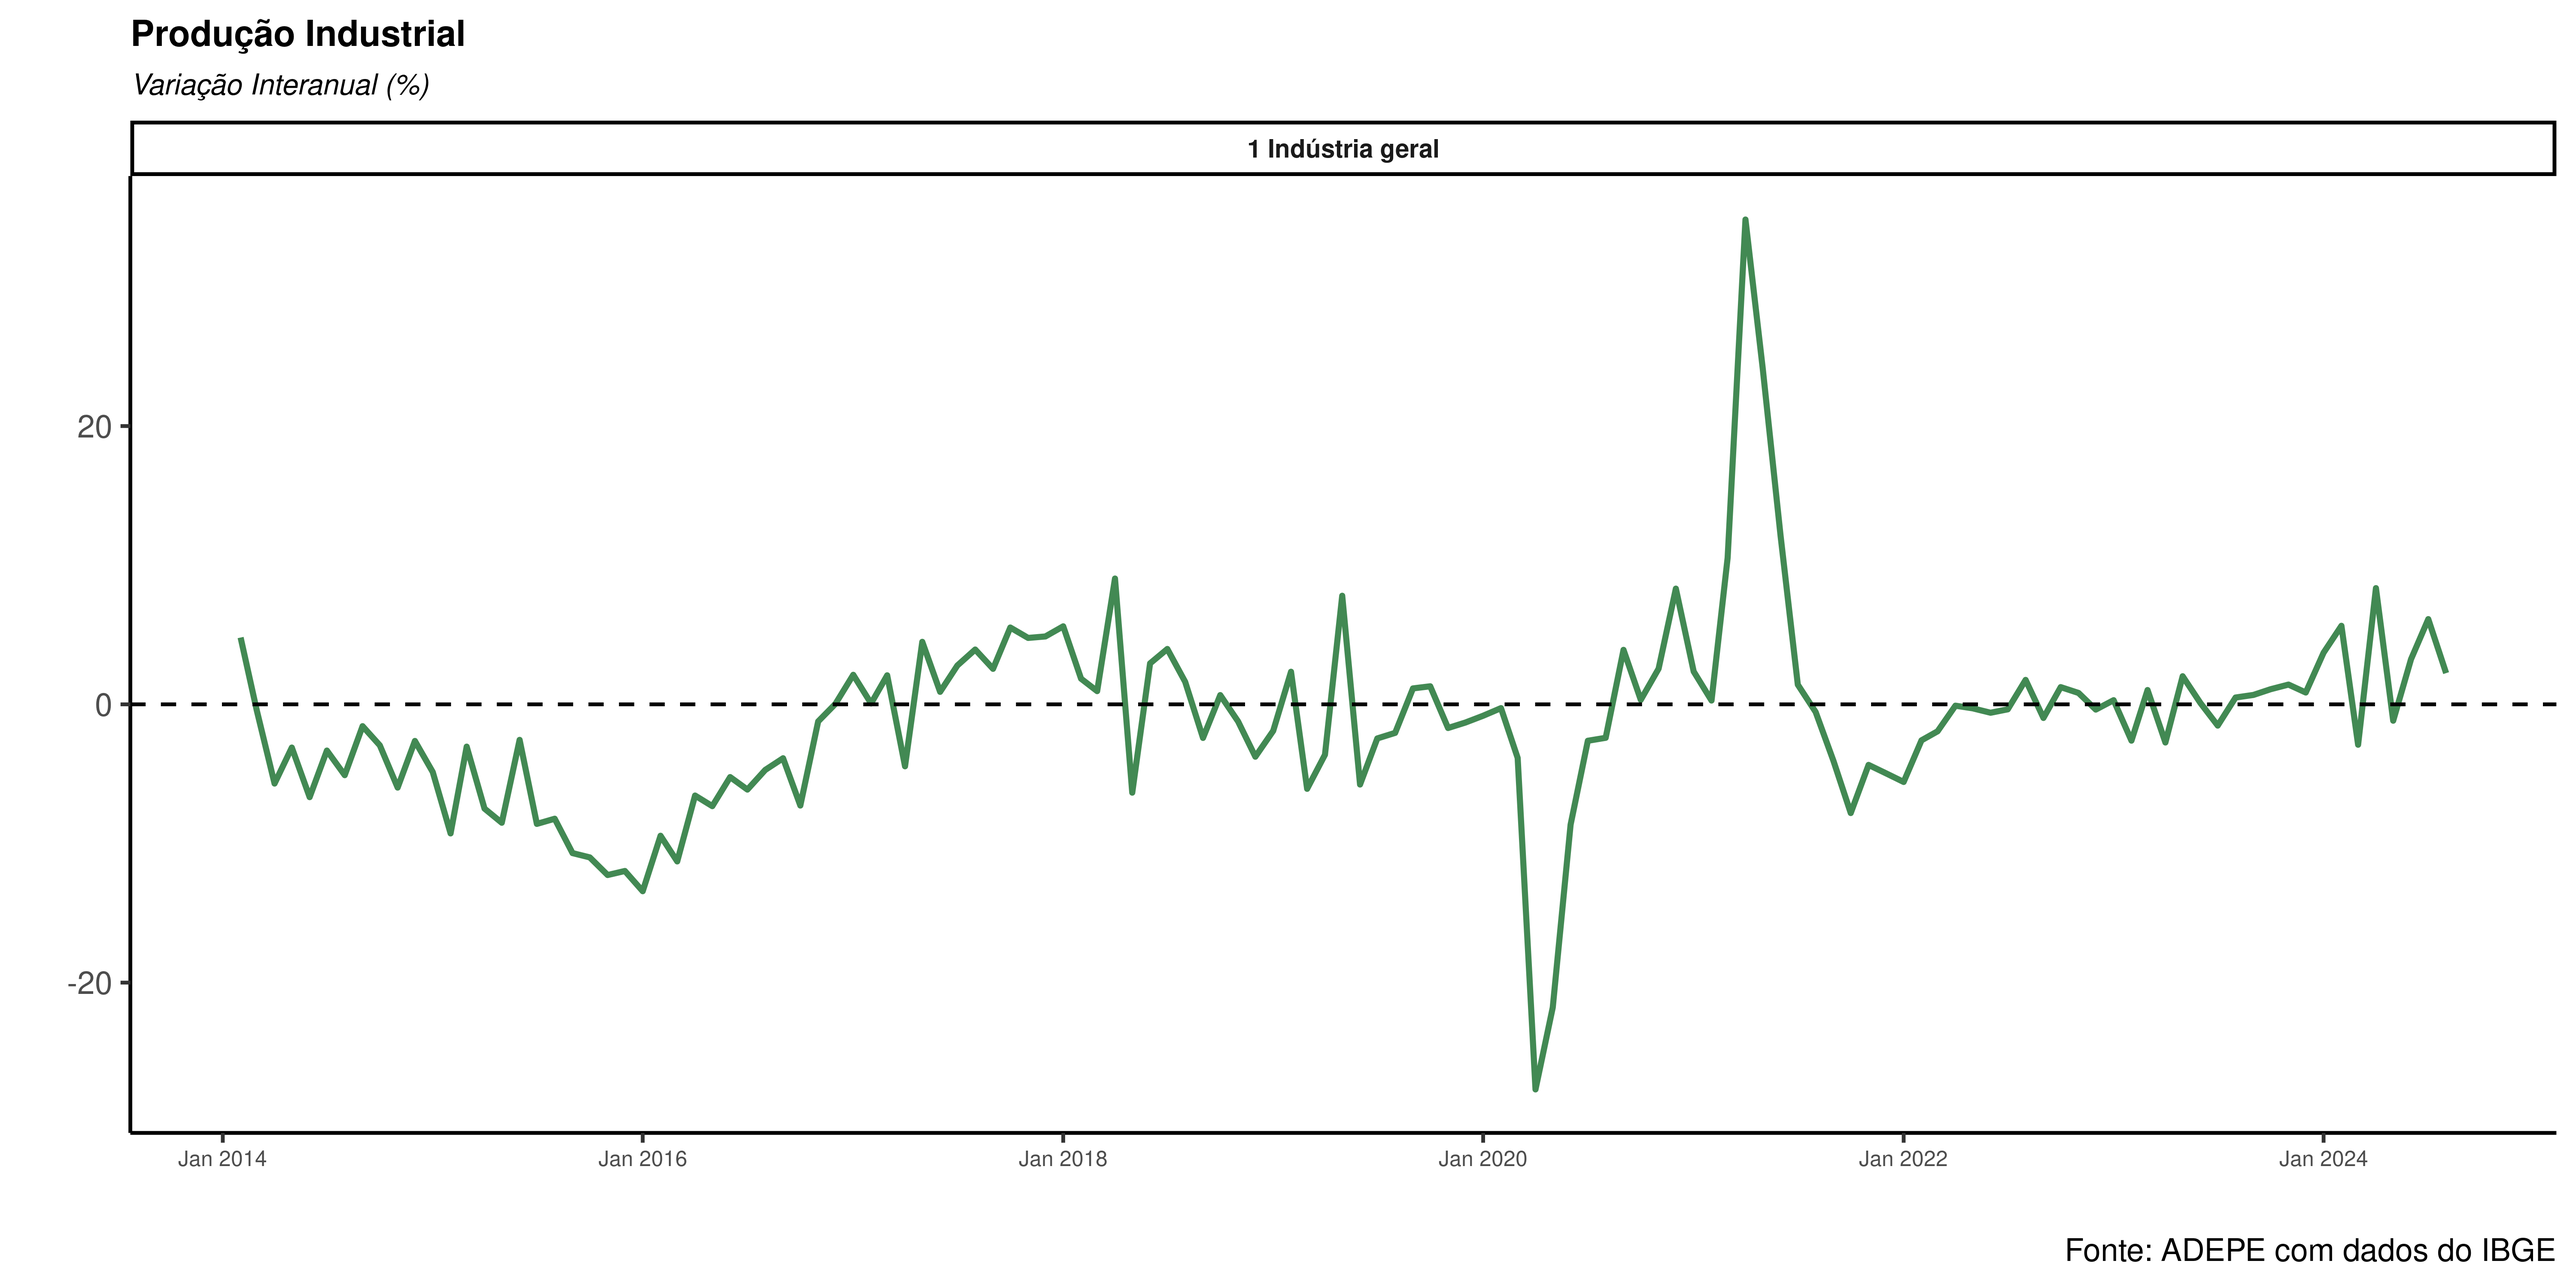
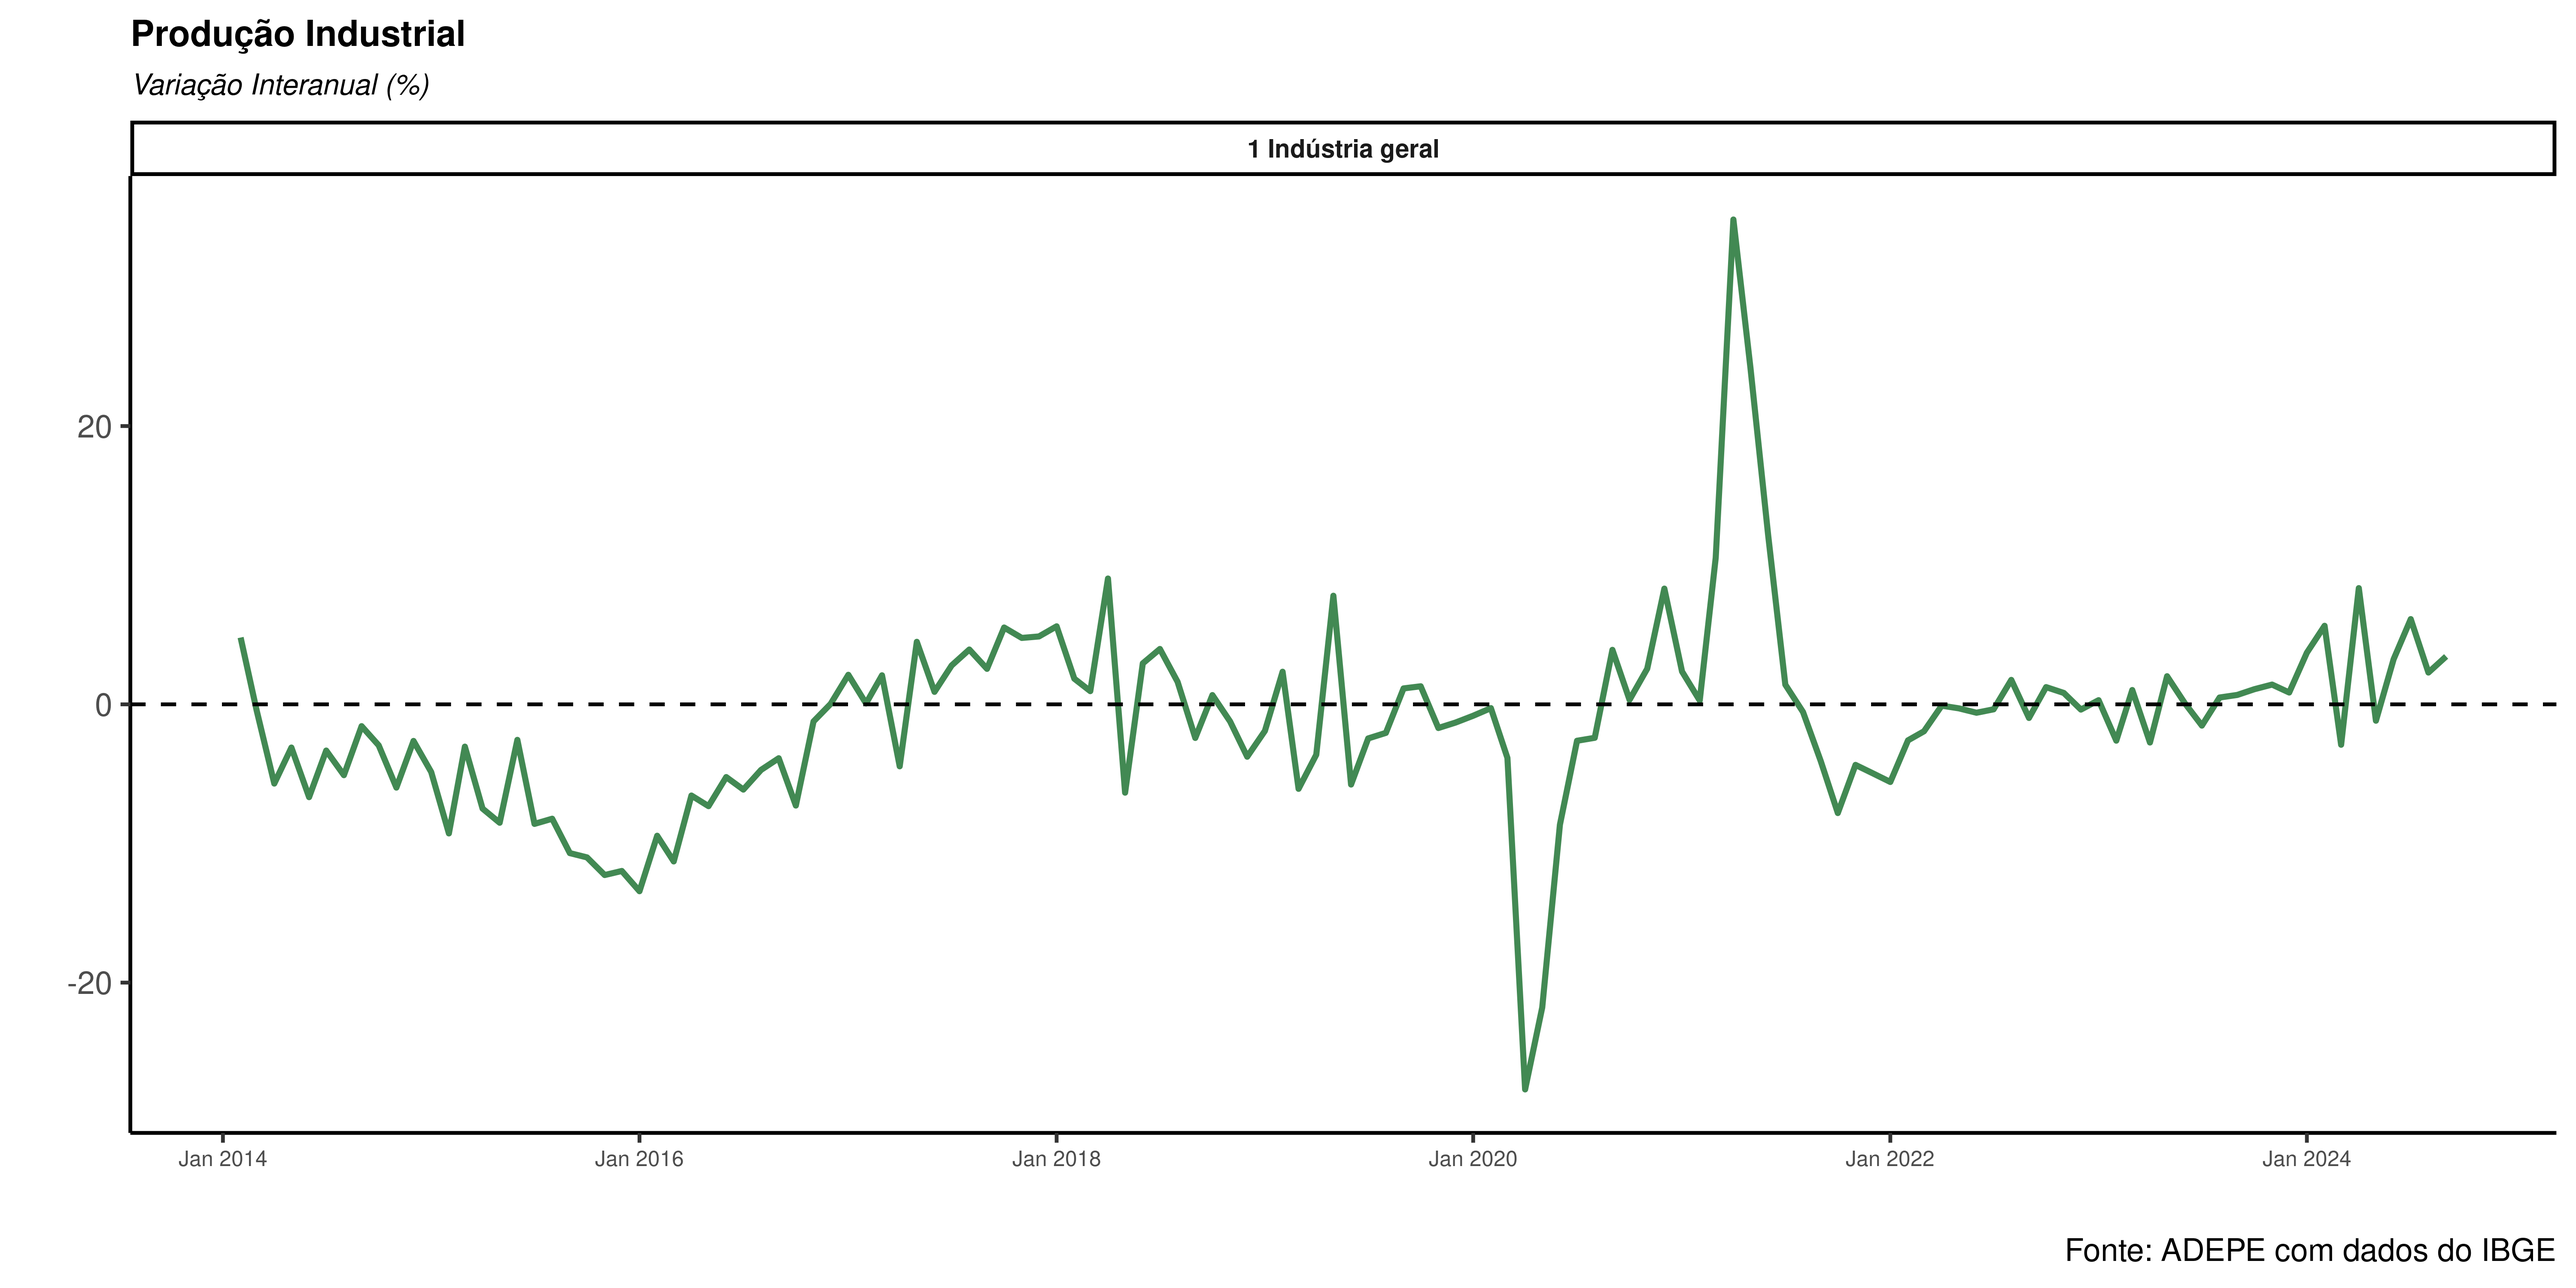
Atualização de relatório automatizada

diff --git a/pim/pim.html b/pim/pim.html
@@ -388,40 +388,40 @@ Núcleo de Dados <br><span style="font-size: 70%;">ADEPE<br><a href="https://git
 </thead>
 <tbody>
 <tr class="odd">
-<td style="text-align: center;">Mar 2024</td>
-<td style="text-align: center;">0.84</td>
-<td style="text-align: center;">0.60</td>
-<td style="text-align: center;">0.71</td>
-</tr>
-<tr class="even">
 <td style="text-align: center;">Apr 2024</td>
-<td style="text-align: center;">-0.37</td>
-<td style="text-align: center;">-3.52</td>
-<td style="text-align: center;">0.26</td>
+<td style="text-align: center;">-0.33</td>
+<td style="text-align: center;">-3.70</td>
+<td style="text-align: center;">0.33</td>
 </tr>
-<tr class="odd">
+<tr class="even">
 <td style="text-align: center;">May 2024</td>
-<td style="text-align: center;">-1.49</td>
-<td style="text-align: center;">3.19</td>
-<td style="text-align: center;">-2.42</td>
-</tr>
-<tr class="even">
-<td style="text-align: center;">Jun 2024</td>
-<td style="text-align: center;">4.36</td>
-<td style="text-align: center;">2.54</td>
-<td style="text-align: center;">4.92</td>
+<td style="text-align: center;">-1.43</td>
+<td style="text-align: center;">3.25</td>
+<td style="text-align: center;">-2.32</td>
 </tr>
 <tr class="odd">
-<td style="text-align: center;">Jul 2024</td>
-<td style="text-align: center;">-1.44</td>
-<td style="text-align: center;">-2.23</td>
-<td style="text-align: center;">-1.43</td>
+<td style="text-align: center;">Jun 2024</td>
+<td style="text-align: center;">4.38</td>
+<td style="text-align: center;">2.51</td>
+<td style="text-align: center;">4.97</td>
 </tr>
 <tr class="even">
+<td style="text-align: center;">Jul 2024</td>
+<td style="text-align: center;">-1.34</td>
+<td style="text-align: center;">-2.30</td>
+<td style="text-align: center;">-1.23</td>
+</tr>
+<tr class="odd">
 <td style="text-align: center;">Aug 2024</td>
-<td style="text-align: center;">0.12</td>
+<td style="text-align: center;">0.25</td>
+<td style="text-align: center;">0.98</td>
+<td style="text-align: center;">-0.09</td>
+</tr>
+<tr class="even">
+<td style="text-align: center;">Sep 2024</td>
 <td style="text-align: center;">1.12</td>
-<td style="text-align: center;">-0.28</td>
+<td style="text-align: center;">-1.30</td>
+<td style="text-align: center;">1.73</td>
 </tr>
 </tbody>
 </table>
@@ -449,40 +449,40 @@ Núcleo de Dados <br><span style="font-size: 70%;">ADEPE<br><a href="https://git
 </thead>
 <tbody>
 <tr class="odd">
-<td style="text-align: center;">Mar 2024</td>
-<td style="text-align: center;">-2.90</td>
-<td style="text-align: center;">1.75</td>
-<td style="text-align: center;">-3.71</td>
-</tr>
-<tr class="even">
 <td style="text-align: center;">Apr 2024</td>
 <td style="text-align: center;">8.35</td>
 <td style="text-align: center;">-1.51</td>
 <td style="text-align: center;">10.15</td>
 </tr>
-<tr class="odd">
+<tr class="even">
 <td style="text-align: center;">May 2024</td>
 <td style="text-align: center;">-1.18</td>
 <td style="text-align: center;">-0.07</td>
 <td style="text-align: center;">-1.37</td>
 </tr>
-<tr class="even">
+<tr class="odd">
 <td style="text-align: center;">Jun 2024</td>
 <td style="text-align: center;">3.24</td>
 <td style="text-align: center;">1.14</td>
 <td style="text-align: center;">3.63</td>
 </tr>
-<tr class="odd">
+<tr class="even">
 <td style="text-align: center;">Jul 2024</td>
 <td style="text-align: center;">6.12</td>
 <td style="text-align: center;">-0.39</td>
 <td style="text-align: center;">7.33</td>
 </tr>
-<tr class="even">
+<tr class="odd">
 <td style="text-align: center;">Aug 2024</td>
-<td style="text-align: center;">2.24</td>
-<td style="text-align: center;">5.59</td>
-<td style="text-align: center;">1.68</td>
+<td style="text-align: center;">2.29</td>
+<td style="text-align: center;">5.62</td>
+<td style="text-align: center;">1.72</td>
+</tr>
+<tr class="even">
+<td style="text-align: center;">Sep 2024</td>
+<td style="text-align: center;">3.44</td>
+<td style="text-align: center;">-2.89</td>
+<td style="text-align: center;">4.63</td>
 </tr>
 </tbody>
 </table>
@@ -510,40 +510,40 @@ Núcleo de Dados <br><span style="font-size: 70%;">ADEPE<br><a href="https://git
 </thead>
 <tbody>
 <tr class="odd">
-<td style="text-align: center;">2024-03-01</td>
-<td style="text-align: center;">0.66</td>
-<td style="text-align: center;">7.57</td>
-<td style="text-align: center;">-0.53</td>
-</tr>
-<tr class="even">
 <td style="text-align: center;">2024-04-01</td>
 <td style="text-align: center;">1.53</td>
 <td style="text-align: center;">7.29</td>
 <td style="text-align: center;">0.53</td>
 </tr>
-<tr class="odd">
+<tr class="even">
 <td style="text-align: center;">2024-05-01</td>
 <td style="text-align: center;">1.25</td>
 <td style="text-align: center;">6.27</td>
 <td style="text-align: center;">0.37</td>
 </tr>
-<tr class="even">
+<tr class="odd">
 <td style="text-align: center;">2024-06-01</td>
 <td style="text-align: center;">1.52</td>
 <td style="text-align: center;">5.42</td>
 <td style="text-align: center;">0.83</td>
 </tr>
-<tr class="odd">
+<tr class="even">
 <td style="text-align: center;">2024-07-01</td>
 <td style="text-align: center;">2.19</td>
 <td style="text-align: center;">4.74</td>
 <td style="text-align: center;">1.74</td>
 </tr>
-<tr class="even">
+<tr class="odd">
 <td style="text-align: center;">2024-08-01</td>
 <td style="text-align: center;">2.36</td>
 <td style="text-align: center;">4.94</td>
 <td style="text-align: center;">1.90</td>
+</tr>
+<tr class="even">
+<td style="text-align: center;">2024-09-01</td>
+<td style="text-align: center;">2.60</td>
+<td style="text-align: center;">3.85</td>
+<td style="text-align: center;">2.38</td>
 </tr>
 </tbody>
 </table>
